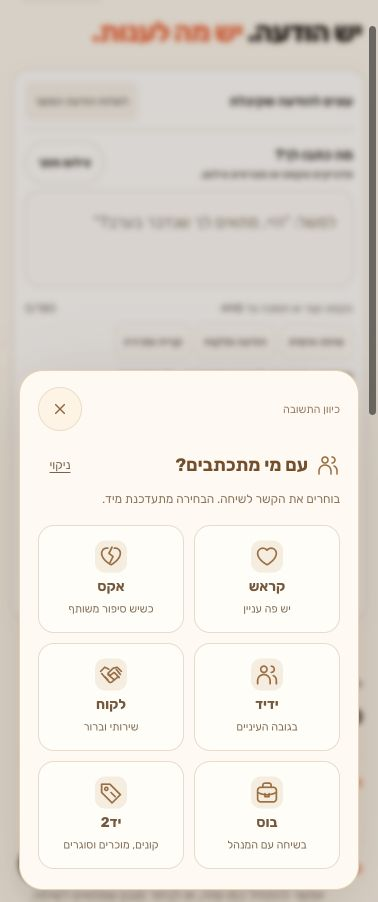
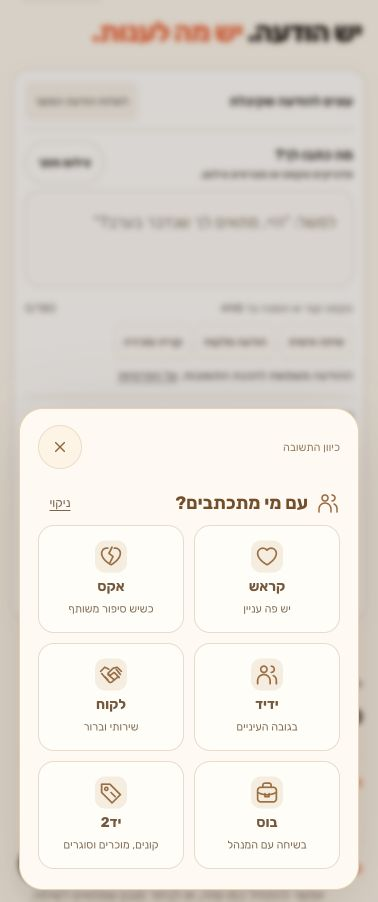
fix: polish compact choices and reveal locked-option feedback

diff --git a/components/reply-direction-controls.tsx b/components/reply-direction-controls.tsx
@@ -147,8 +147,12 @@ function DirectionEditor(props: ReplyDirectionControlsProps & { field: Direction
         data-direction-option={value} data-locked={locked || undefined}
         aria-describedby={`direction-description-${encodeURIComponent(value)}`}
         aria-label={`${label}${monthly ? props.isBillingLoading ? ' · בדיקת מנוי' : locked ? ' · נעול לחודשי, לחצו לפרטים' : ' · חודשי' : ''}`}
-        onClick={() => {
-          if (locked || monthly && props.isBillingLoading) { setLockedChoice(value); return; }
+        onClick={(event) => {
+          if (locked || monthly && props.isBillingLoading) {
+            setLockedChoice(value);
+            event.currentTarget.closest('dialog')?.scrollTo({ top: 0 });
+            return;
+          }
           change(value); close();
         }}>
         {selected ? <svg className="sb-choice-check" width="16" height="16" viewBox="0 0 16 16" fill="none" stroke="currentColor" strokeWidth="2" aria-hidden="true"><path d="m3 8 3 3 7-7" /></svg> : null}
@@ -183,7 +187,7 @@ function DirectionEditor(props: ReplyDirectionControlsProps & { field: Direction
       {field === 'language' ? <div className="sb-direction-language" ref={languagePanel}>
         <p className="sb-language-progress" role="status">{firstLanguageSide
           ? `הבחירה נשמרה. ${firstLanguageSide === 'speaker' ? 'עכשיו בוחרים איך לפנות למי שמולך.' : 'עכשיו בוחרים את הניסוח שלך.'}`
-          : 'בוחרים בשני החלקים, והחלון נסגר מעצמו. כל בחירה נשמרת מיד.'}</p>
+          : 'בוחרים בשני החלקים. כל בחירה נשמרת מיד.'}</p>
         {(['speaker', 'recipient'] as const).map((side) => (
           <fieldset key={side} data-next={firstLanguageSide && firstLanguageSide !== side || undefined}>
             <legend><span className="sb-language-question"><LanguageIcon kind={side} />{side === 'speaker' ? 'איך לנסח את התשובה שלך?' : 'ואיך לפנות למי שמולך?'}</span></legend>
@@ -200,10 +204,10 @@ function DirectionEditor(props: ReplyDirectionControlsProps & { field: Direction
             </div>
           </fieldset>
         ))}
-        <p className="sb-direction-help">הניסוח בשמך נשמר בדפדפן לפעם הבאה. הפנייה לצד השני היא לשיחה הזאת.</p>
+        <p className="sb-direction-help">הניסוח שלך נשמר בדפדפן; הפנייה לצד השני לשיחה הזו.</p>
       </div> : null}
       {field === 'background' && !isBackgroundLocked && !props.isBillingLoading ? <div className="sb-direction-background">
-        <label htmlFor="direction-conversation-background">מה כדאי לדעת על השיחה?</label>
+        <label htmlFor="direction-conversation-background">פרט שיעזור לדייק</label>
         <textarea id="direction-conversation-background" aria-label="רקע נוסף לשיחה" value={props.conversationBackground}
           onChange={(event) => props.onBackgroundChange(event.target.value.slice(0, MAX_CONVERSATION_BACKGROUND_LENGTH))}
           maxLength={MAX_CONVERSATION_BACKGROUND_LENGTH} placeholder="למשל: דיברנו כמה ימים ואז השיחה נעצרה" aria-describedby="direction-background-help" />

diff --git a/components/reply-direction-controls.css b/components/reply-direction-controls.css
@@ -82,15 +82,15 @@
 /* Drawn SVGs keep language cues consistent across device fonts. */
 .sb-language-icon { flex: 0 0 24px; color: #a36a38; }
 .sb-language-question { display: flex; align-items: center; gap: 8px; }
-.sb-direction-dialog .sb-direction-language { grid-template-columns: 1fr; gap: 18px; margin-top: 8px; }
+.sb-direction-dialog .sb-direction-language { grid-template-columns: 1fr; gap: 12px; margin-top: 8px; }
 .sb-direction-language fieldset { margin: 0; }
 .sb-language-progress { margin: 0; min-height: 38px; padding: 8px 10px; border-radius: 10px; background: #f6eddf; color: #795637; font-size: 12px; line-height: 19px; }
 .sb-direction-language fieldset[data-next] .sb-language-question { color: #a15a20; }
 .sb-direction-language fieldset[data-next] .sb-language-icon { background: #ffedc5; border-radius: 6px; box-shadow: 0 0 0 4px #ffedc5; }
 .sb-direction-language legend { margin-bottom: 0; font-size: 14px; line-height: 22px; }
-.sb-direction-language fieldset .sb-direction-help { margin: 4px 32px 10px 0; font-size: 12px; }
+.sb-direction-language fieldset .sb-direction-help { margin: 4px 32px 8px 0; font-size: 12px; }
 .sb-direction-dialog .sb-direction-language .sb-direction-options { display: grid; grid-template-columns: repeat(2, minmax(0, 1fr)); gap: 10px; }
-.sb-direction-dialog .sb-direction-language .sb-direction-option { position: relative; flex-direction: row; min-height: 58px; padding: 10px 12px; gap: 6px; font-size: 13px; }
+.sb-direction-dialog .sb-direction-language .sb-direction-option { position: relative; flex-direction: row; min-height: 52px; padding: 10px 12px; gap: 6px; font-size: 13px; }
 .sb-language-check { position: absolute; inset-inline-end: 6px; top: 6px; color: #99531c; }
 .sb-direction-language > .sb-direction-help { margin: 0; padding-top: 12px; border-top: 1px solid #eadbc9; line-height: 19px; }
 .sb-direction-dialog:has([data-field="language"]) { max-height: min(560px, 85dvh); }
@@ -117,6 +117,7 @@
 .sb-direction-dialog .sb-direction-monthly { display: inline-flex; align-items: center; gap: 3px; padding: 2px 6px; border-radius: 6px; background: #f3e7d5; font-size: 10px; line-height: 14px; }
 .sb-direction-option[data-locked] { border-style: dashed; }
 .sb-direction-notice { margin: 0 0 12px; }
+.sb-direction-section[data-field="goal"] .sb-direction-option { min-height: 104px; }
 .sb-direction-background textarea { border-radius: 16px; min-height: 132px; padding: 12px; border-color: #eadbc9; background: #fffdf8; }
 .sb-direction-background label { margin-bottom: 10px; font-weight: 600; font-size: 14px; }
 .sb-direction-background .sb-direction-help { margin-top: 10px; line-height: 20px; }

diff --git a/components/direction-choice-visuals.tsx b/components/direction-choice-visuals.tsx
@@ -85,10 +85,10 @@ export const directionChoices: Record<ToneOption | ContextOption | Goal | Contin
 };
 
 export const directionFields: Record<DirectionField, { icon: DirectionIconName; question: string; description: string }> = {
-  tone: { icon: 'wave', question: 'איזה וייב מתאים לתשובה?', description: 'בוחרים את הטון שלך, והוא מתעדכן מיד.' },
-  context: { icon: 'people', question: 'עם מי מתכתבים?', description: 'בוחרים את הקשר לשיחה. הבחירה מתעדכנת מיד.' },
+  tone: { icon: 'wave', question: 'איזה וייב מתאים לתשובה?', description: '' },
+  context: { icon: 'people', question: 'עם מי מתכתבים?', description: '' },
   goal: { icon: 'target', question: 'מה התשובה צריכה לעשות?', description: '' },
-  language: { icon: 'language', question: 'איך הכי טבעי לנסח?', description: 'מתאימים את הניסוח שלך ואת הפנייה לצד השני.' },
-  continue: { icon: 'chat', question: 'להשאיר פתח להמשך?', description: 'זו בחירה אם להמשיך לדבר, גם בלי להסכים לתוכן ההודעה.' },
-  background: { icon: 'note', question: 'מה עוד כדאי לדעת?', description: 'כל שינוי מתעדכן מיד, רק לשיחה הזאת.' },
+  language: { icon: 'language', question: 'איך הכי טבעי לנסח?', description: '' },
+  continue: { icon: 'chat', question: 'להשאיר פתח להמשך?', description: 'להמשיך לדבר לא אומר להסכים להודעה.' },
+  background: { icon: 'note', question: 'מה עוד כדאי לדעת?', description: '' },
 };

diff --git a/README.md b/README.md
@@ -115,7 +115,9 @@ The incoming message field grows and shrinks with its content, capped at 160px o
   </tr>
 </table>
 
-Local UI captures, November 14, 2026. Checked at 320×568, 378×902 and 849×902 CSS pixels, including selection, reset, scrolling and follow-up goals. Monthly-only choices/background were checked in code and type validation; their live entitlement and payment flows were not exercised in this UI change.
+Local UI captures, November 14, 2026. Checked at 320×568, 378×902 and 849×902 CSS pixels, including selection, reset, scrolling and follow-up goals. All six dialogs were also exercised with an isolated local component fixture at these three sizes, covering all 10 tones, 12 contexts, 6 reply goals, 3 follow-up goals, both continuation choices, language and background. No horizontally clipped text was found; card descriptions used at most two lines at 320px. Full monthly lists scroll inside the dialog on phones; selecting a locked option brings its notice into view. Language choices and background edits were checked for immediate updates. The fixture was removed afterward; live subscription and payment flows were not exercised.
+
+![All twelve recipient contexts in a local monthly-access UI fixture](docs/screenshots/direction-monthly-desktop.jpg)
 
 The grammatical preference dialog stacks two clear questions, each with a pair of generous masculine/feminine buttons and short Hebrew examples. Custom inline SVG illustrations keep the icons consistent across devices. Each choice applies immediately: the first moves focus to the other question and highlights it; choosing both sides during the current visit closes the dialog automatically, in either order. Changing the same side again keeps it open, and closing early keeps that choice. Use **ניקוי** to clear both preferences and restart this flow; there is no separate “no preference” option or save button.
 
